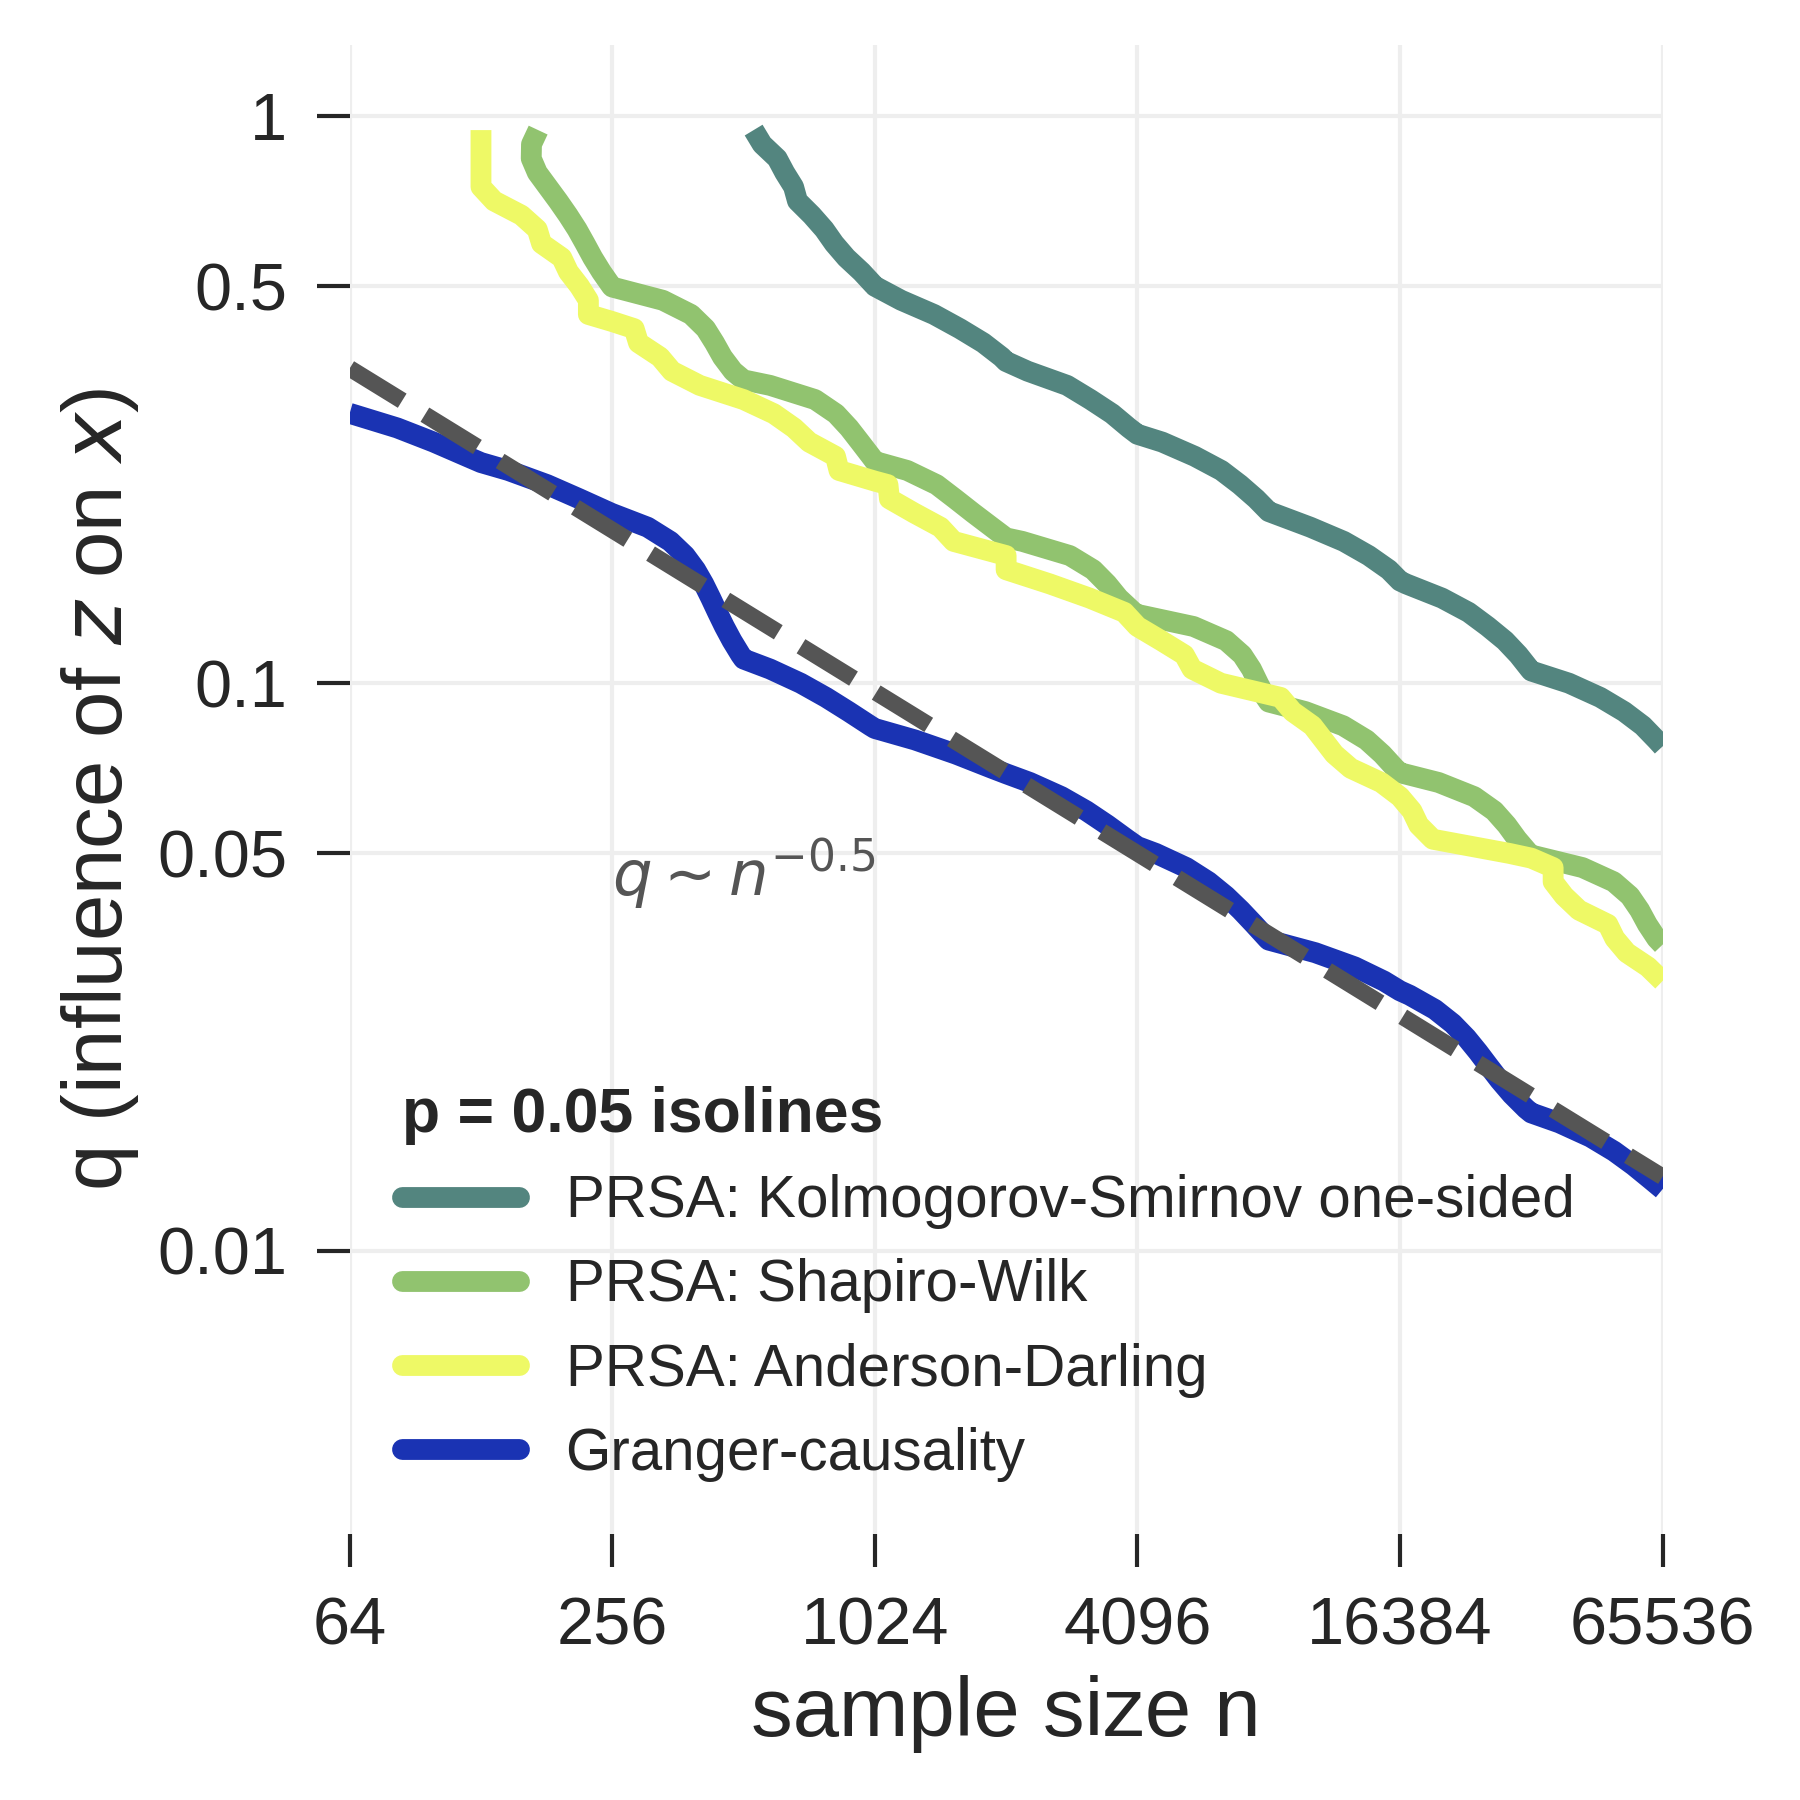
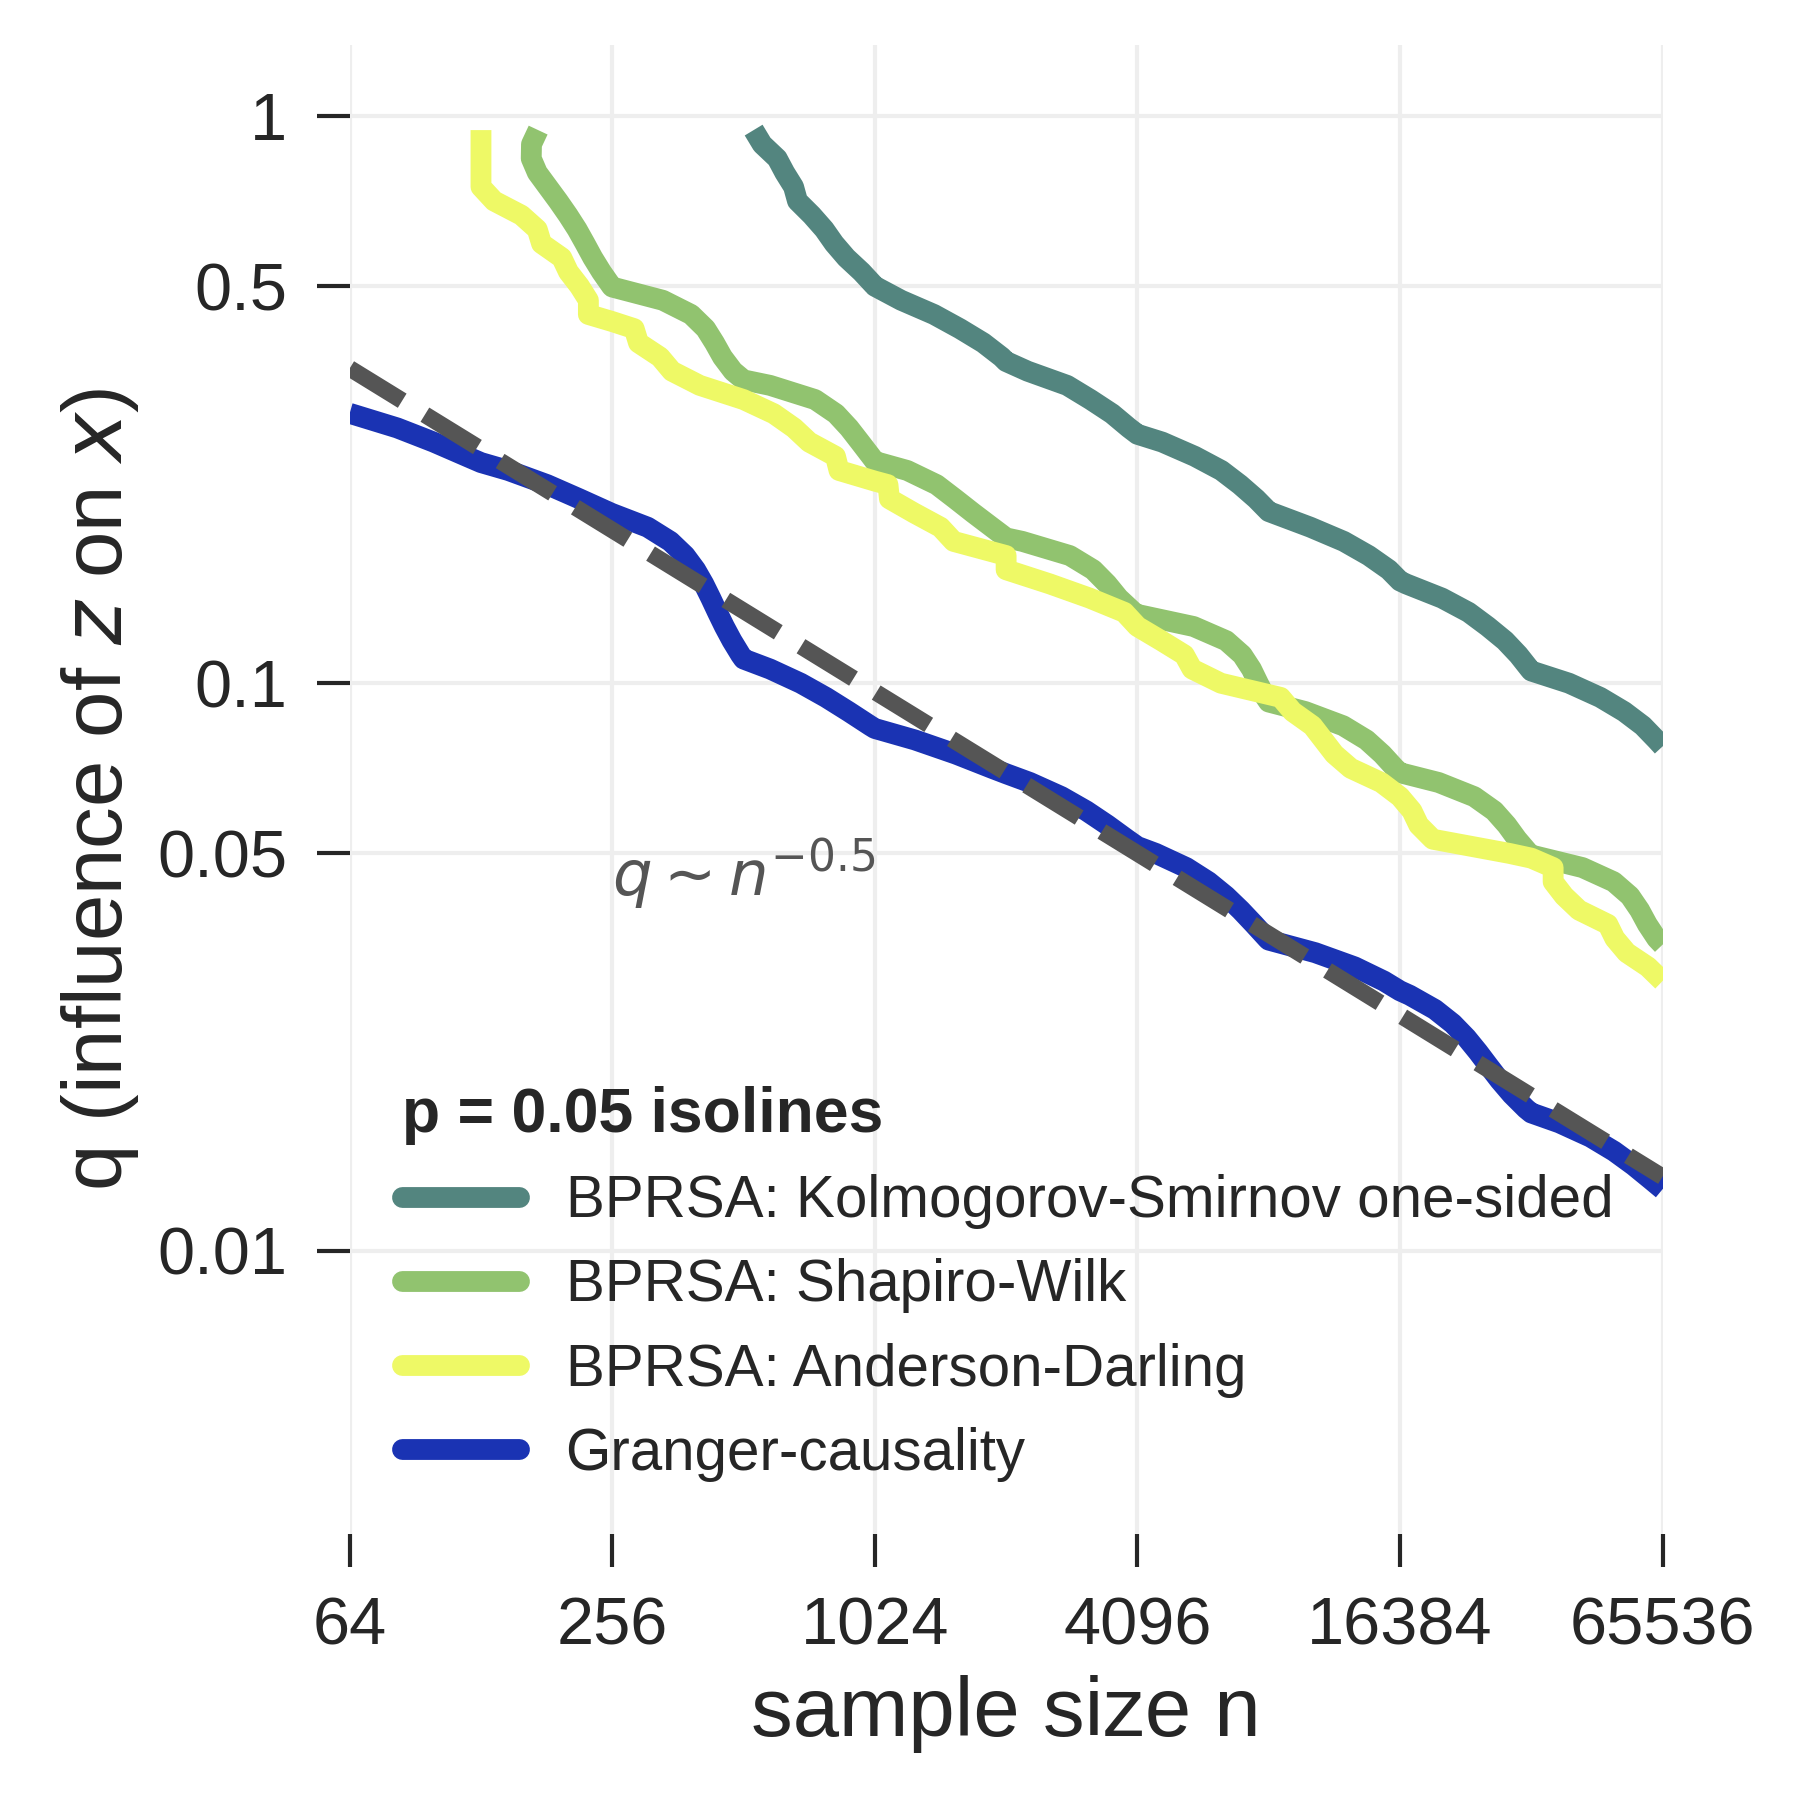
PRSA to BPRSA in Fig.2

Changed region(s): [[0.3111, 0.6533, 0.9022, 0.7778]]

diff --git a/plot.py b/plot.py
@@ -199,10 +199,10 @@ tests = [
 
 testnames = [
     "Granger-causality",
-    "PRSA: Kolmogorov-Smirnov one-sided",
-    "PRSA: Anderson-Darling",
-    "PRSA: Kolmogorov-Smirnov two-sided",
-    "PRSA: Shapiro-Wilk",
+    "BPRSA: Kolmogorov-Smirnov one-sided",
+    "BPRSA: Anderson-Darling",
+    "BPRSA: Kolmogorov-Smirnov two-sided",
+    "BPRSA: Shapiro-Wilk",
 ]  # for creating the diagram titles
 colors = [cmcrameri.cm.imolaS(ii) for ii in [0, 2, 17, 1, 3]]
 fig, ax = plt.subplots(figsize=(6, 6))
